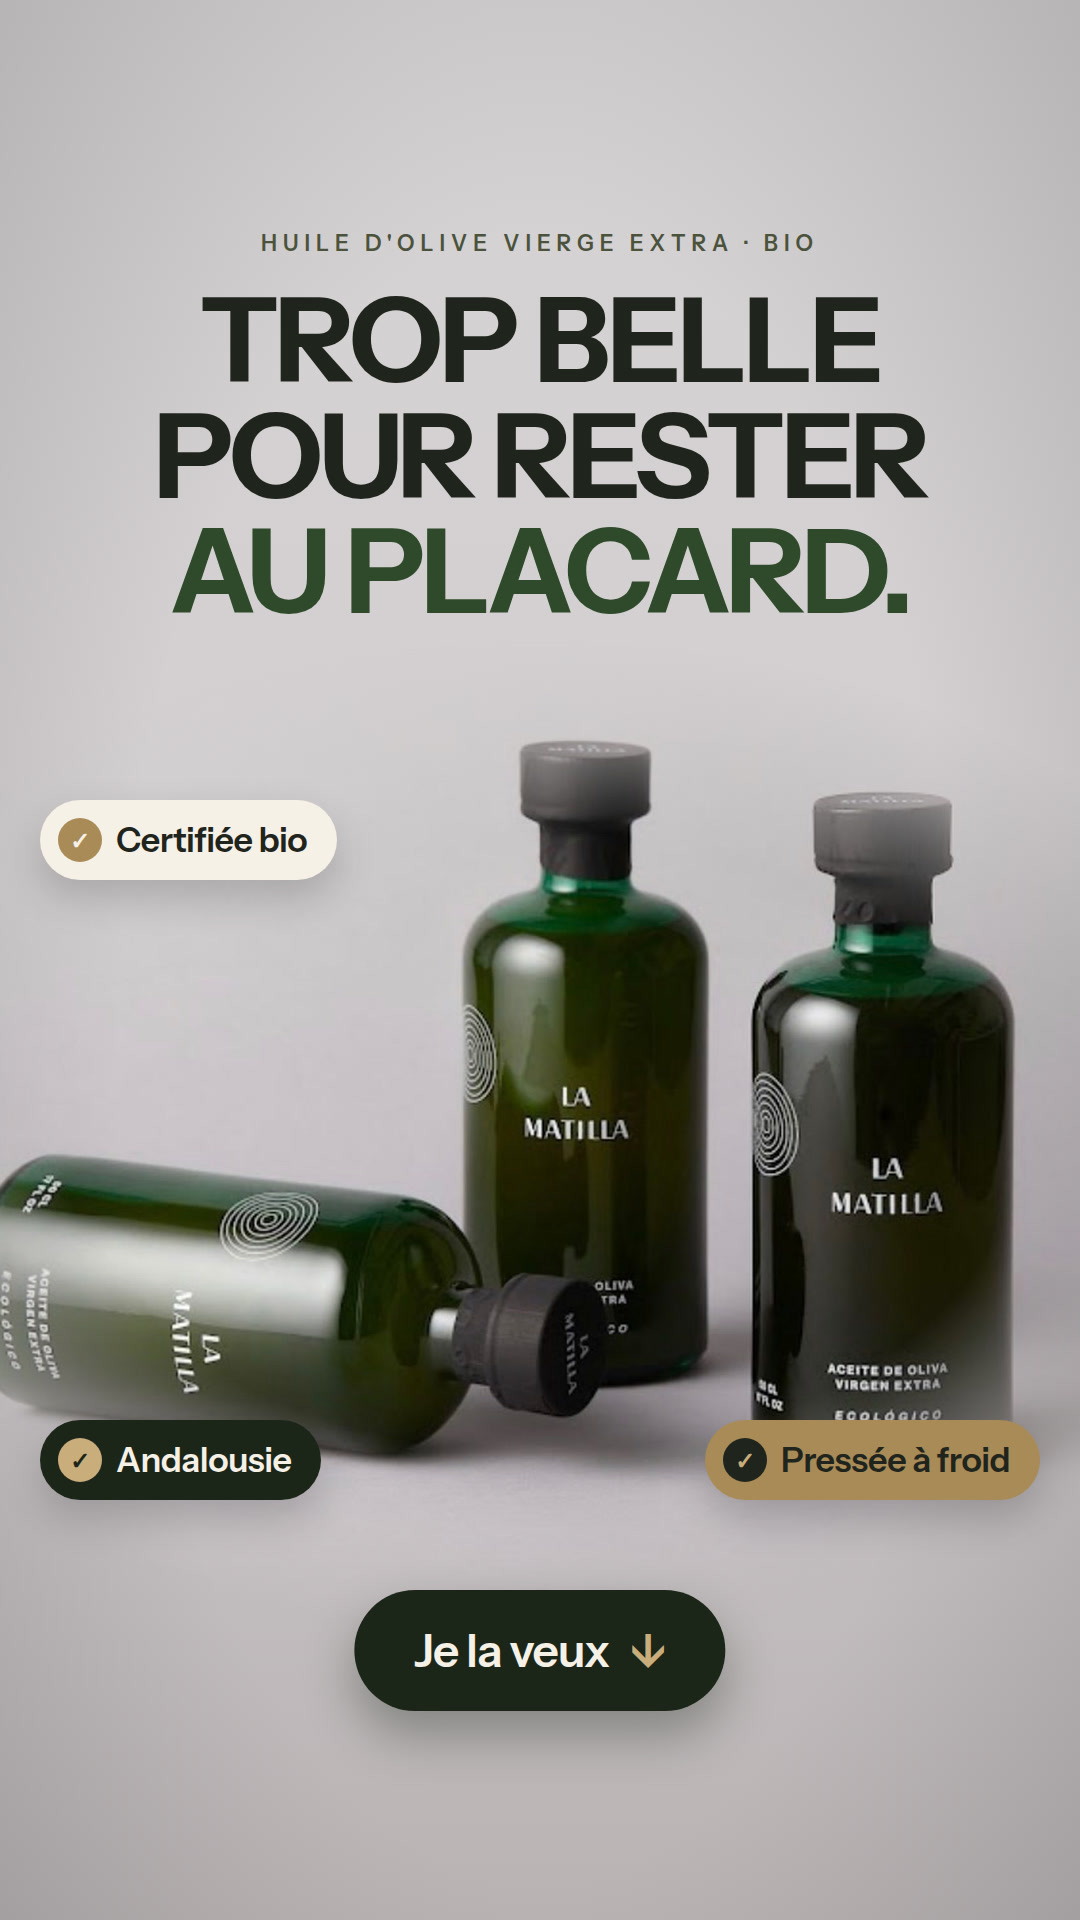
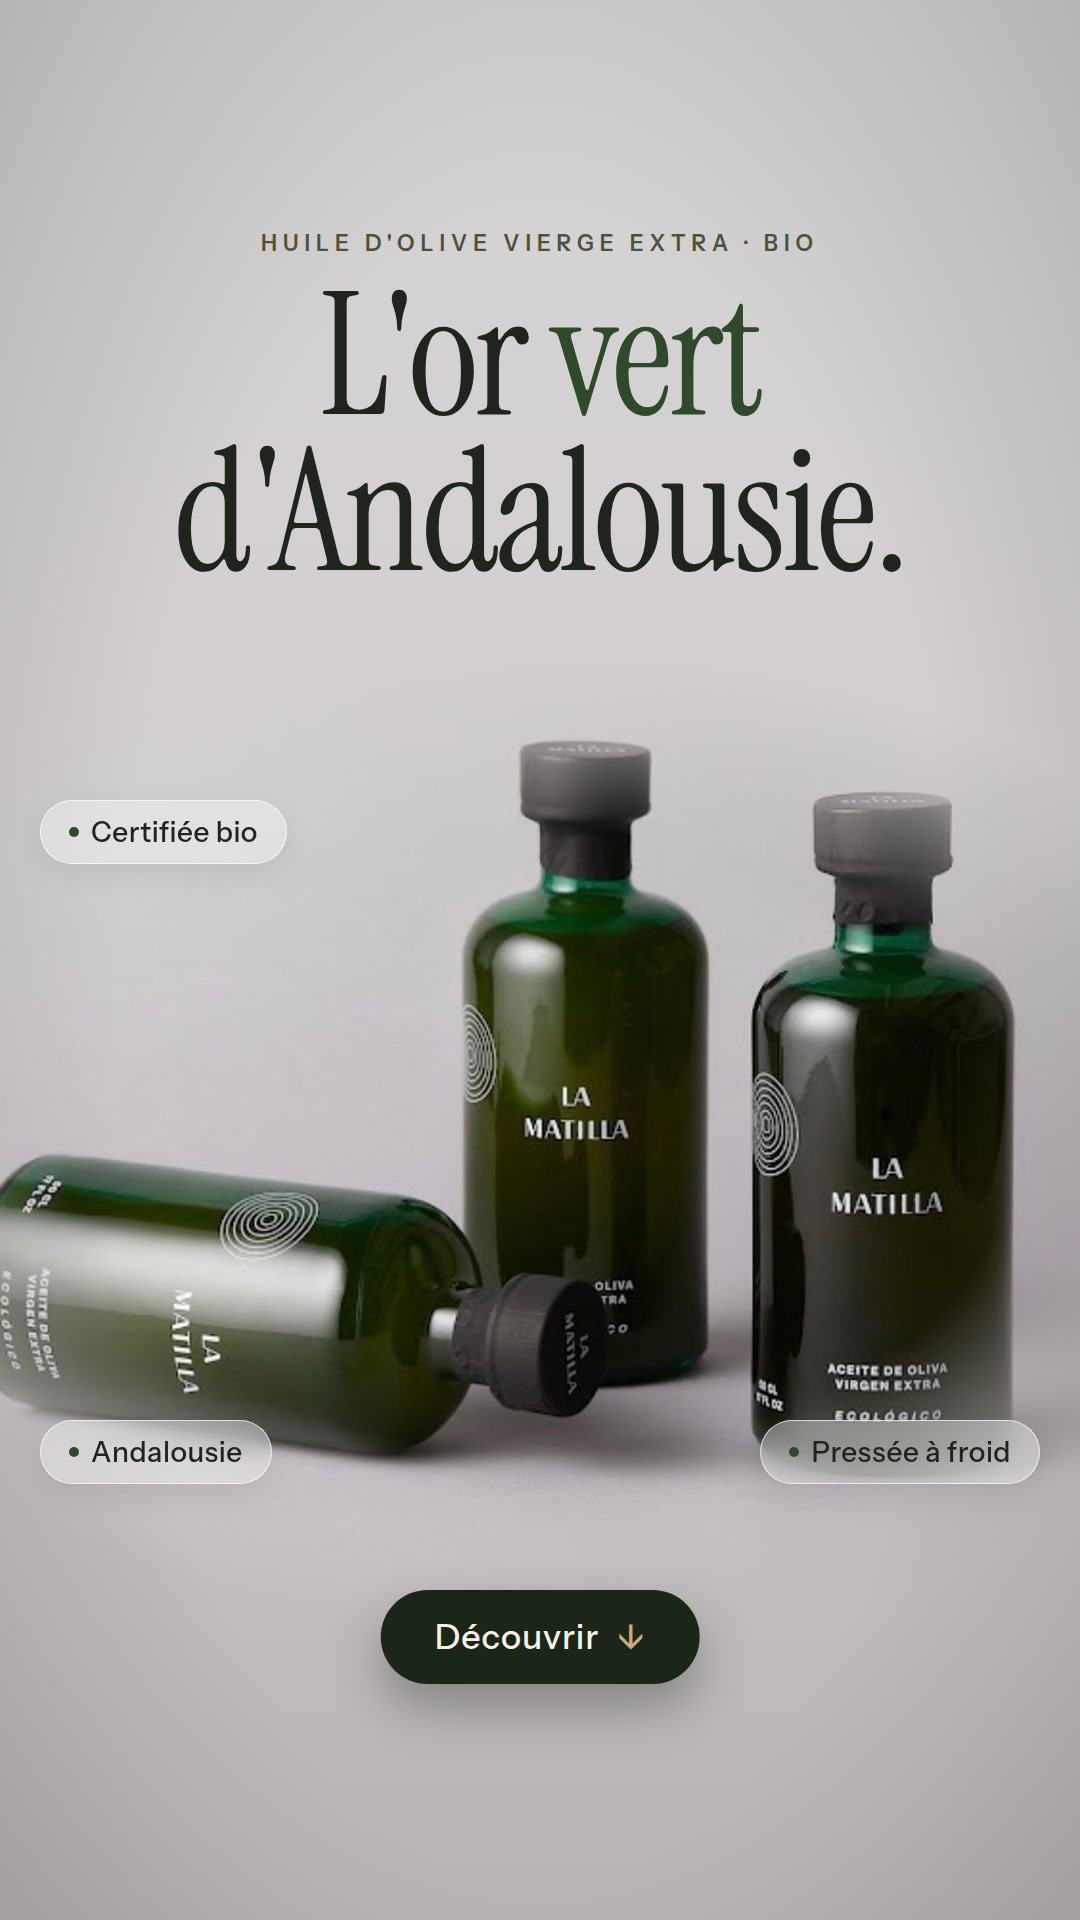
Huile bio : accroche « L'or vert d'Andalousie. », style plus fin
Claude-Session: https://claude.ai/code/session_01UiVtPwDdPsmKbNcFJesaT8

diff --git a/instagram/video-source/bio3.html b/instagram/video-source/bio3.html
@@ -1,0 +1,44 @@
+<!doctype html><html lang="fr"><head><meta charset="utf-8"><link href="fonts/fonts.css" rel="stylesheet"><style>
+:root{--cream:#F6F1E7;--ink:#1F241C;--olive:#4B523C;--gold:#A88B57;--gold2:#C9AE7C;--teal:#48A99A;--deep:#1B2619}
+*{margin:0;padding:0;box-sizing:border-box}html,body{width:2160px;height:1920px;overflow:hidden;background:#000}
+body{font-family:"Instrument Sans",sans-serif;color:var(--ink)}
+.bg{position:absolute;inset:0;background:linear-gradient(#D6D3D4 0%,#D3CFD1 45%,#B9B3B4 100%)}
+.ph{position:absolute;object-fit:cover;-webkit-mask-image:radial-gradient(ellipse 50% 50% at 50% 50%,#000 62%,transparent 100%)}
+.H{font-weight:700;text-transform:uppercase;letter-spacing:-.03em;line-height:.98}
+.T{font-family:"Instrument Serif",serif;font-weight:400;letter-spacing:-.02em;line-height:.92}
+.k{font-size:22px;letter-spacing:6px;text-transform:uppercase;font-weight:600}
+.pill{position:absolute;display:flex;align-items:center;gap:12px;padding:14px 28px;border-radius:999px;font-size:28px;font-weight:500;letter-spacing:.5px;white-space:nowrap;background:rgba(255,255,255,.38)!important;color:var(--ink)!important;border:1px solid rgba(255,255,255,.7);backdrop-filter:blur(14px);box-shadow:0 10px 30px rgba(0,0,0,.08)}
+.pill i{width:10px;height:10px;border-radius:50%;background:#2F4A2A!important;font-size:0}
+.cta{position:absolute;left:50%;transform:translateX(-50%);display:flex;align-items:center;gap:18px;padding:26px 54px;border-radius:999px;background:var(--deep);color:var(--cream);font-size:34px;font-weight:500;letter-spacing:1px;white-space:nowrap;box-shadow:0 24px 50px rgba(27,38,25,.35)}
+.cta span{color:var(--gold2)}
+.vig{position:absolute;inset:0;background:radial-gradient(ellipse at 50% 55%,rgba(0,0,0,0) 55%,rgba(40,40,40,.18) 100%)}
+</style></head><body>
+
+<!-- POST -->
+<div style="position:absolute;left:0;top:0;width:1080px;height:1350px;overflow:hidden">
+ <div class="bg"></div>
+ <img class="ph" src="hq/bio.jpg" style="left:-110px;top:360px;width:1300px;height:847px;object-position:50% 50%">
+ <div class="vig"></div>
+ <div style="position:absolute;left:0;right:0;top:80px;text-align:center">
+  <div class="k" style="color:var(--olive)">Huile d'olive vierge extra · Bio</div>
+  <div class="T" style="font-size:132px;margin-top:16px">L'or <span style="color:#2F4A2A">vert</span><br>d'Andalousie.</div></div>
+ <div class="pill" style="left:50px;top:560px;background:var(--cream)"><i style="background:var(--gold);color:var(--cream)">✓</i>Certifiée bio</div>
+ <div class="pill" style="right:40px;top:1030px;background:var(--gold)"><i style="background:var(--ink);color:var(--gold2)">✓</i>Pressée à froid</div>
+ <div class="pill" style="left:50px;top:1030px;background:var(--deep);color:var(--cream)"><i style="background:var(--gold2);color:var(--deep)">✓</i>Andalousie</div>
+ <div class="cta" style="bottom:70px">jimenez-shop.com <span>→</span></div>
+</div>
+
+<!-- STORY -->
+<div style="position:absolute;left:1080px;top:0;width:1080px;height:1920px;overflow:hidden">
+ <div class="bg"></div>
+ <img class="ph" src="hq/bio.jpg" style="left:-230px;top:640px;width:1540px;height:1003px;object-position:50% 50%">
+ <div class="vig"></div>
+ <div style="position:absolute;left:0;right:0;top:230px;text-align:center">
+  <div class="k" style="color:var(--olive)">Huile d'olive vierge extra · Bio</div>
+  <div class="T" style="font-size:170px;margin-top:22px">L'or <span style="color:#2F4A2A">vert</span><br>d'Andalousie.</div></div>
+ <div class="pill" style="left:40px;top:800px;background:var(--cream)"><i style="background:var(--gold);color:var(--cream)">✓</i>Certifiée bio</div>
+ <div class="pill" style="right:40px;top:1420px;background:var(--gold)"><i style="background:var(--ink);color:var(--gold2)">✓</i>Pressée à froid</div>
+ <div class="pill" style="left:40px;top:1420px;background:var(--deep);color:var(--cream)"><i style="background:var(--gold2);color:var(--deep)">✓</i>Andalousie</div>
+ <div class="cta" style="top:1590px">Découvrir <span>↓</span></div>
+</div>
+</body></html>
